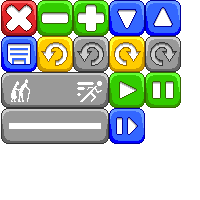
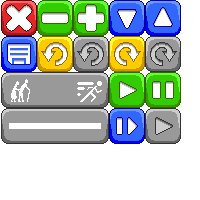
Added a 'disabled' image for the play-button on the playback screen

Changed region(s): [[0.72, 0.54, 0.93, 0.72]]

diff --git a/Paint/Tools/PlaybackToolbox.cs b/Paint/Tools/PlaybackToolbox.cs
@@ -150,10 +150,9 @@ namespace Paint
 		/// </param>
 		private void AddPlayPauseButton(ToolboxLayoutDefinitionStandardToolsButtonsButton buttonLayout)
 		{
-			// TODO - need new icon for disabled button
 			this.playButton = new Button(
 				this.GraphicsDisplay, 
-				new ButtonDefinition(buttonLayout, this.Scale, new ImageType[] { ImageType.PlayButton, ImageType.PauseButton }, ImageType.UndoButtonDisabled));
+				new ButtonDefinition(buttonLayout, this.Scale, new ImageType[] { ImageType.PlayButton, ImageType.PauseButton }, ImageType.PlayButtonDisabled));
 			
 			this.playButton.ButtonPressed += (sender, e) => 
 			{

diff --git a/Paint/Graphics/ImageType.cs b/Paint/Graphics/ImageType.cs
@@ -109,7 +109,12 @@ namespace Paint
 		/// <summary>
 		/// Draw a restart button.
 		/// </summary>
-		RestartButton
+		RestartButton,
+
+		/// <summary>
+		/// Draw a disabled play button
+		/// </summary>
+		PlayButtonDisabled
 	}
 }
 
